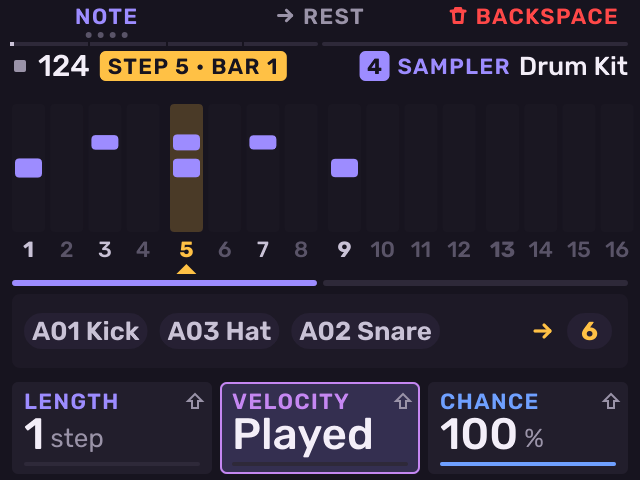
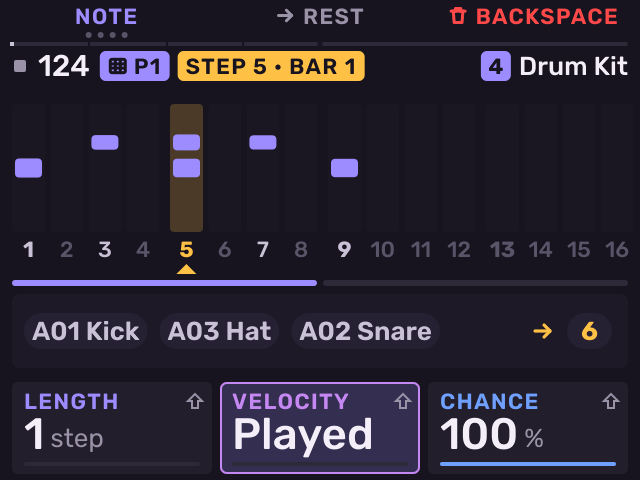
feat(melodee): Roll, Motion and Step Edit name the pattern they edit in the header, amber while the track plays another; the pattern's LENGTH and Q cards name it too (P20 LENGTH)

Changed region(s): [[0.1562, 0.0938, 0.8125, 0.1875]]

diff --git a/src/melodee/pages/common.cpp b/src/melodee/pages/common.cpp
@@ -75,6 +75,13 @@ ui::HeaderItem bank_pill(const Snapshot& s) {
                     ui::colour::text);
 }
 
+// The pattern the editors and the pattern cards edit: in the track's colour, amber while another one plays.
+ui::HeaderItem edit_pattern_chip(const Snapshot& s) {
+    unsigned edited = s.track().pattern % pattern_count;
+    bool apart = s.playing && s.playing_patterns[s.ui.track % track_count] % pattern_count != edited;
+    return ui::chip(ui::Icon::Pattern, "P" + juce::String(edited + 1), apart ? ui::colour::amber : colour_of(s));
+}
+
 ui::HeaderItem tag_of(const Snapshot& s, unsigned track) {
     const auto& t = s.project.tracks[track % track_count];
     const auto& info = engine_info(t.engine);
@@ -326,12 +333,14 @@ void describe_card(const Snapshot& s, const Binding& b, ui::KnobCard& c) {
         break;
     case Kind::PatternBars: case Kind::PatternLength: { // by the bar; a length that is not whole bars by the step of Q
         unsigned bar = s.project.bar_ticks();
-        if (s.pattern.length % bar) { c.label = "LENGTH"; c.value = juce::String(s.pattern.steps()); c.unit = "steps"; break; }
+        juce::String which = "P" + juce::String(s.track().pattern % pattern_count + 1) + " "; // the pattern it belongs to
+        c.label = which + "LENGTH"; c.label_mixed = which + "Length"; // mixed case where capitals don't fit (P128)
+        if (s.pattern.length % bar) { c.value = juce::String(s.pattern.steps()); c.unit = "steps"; break; }
         unsigned bars = s.pattern.length / bar;
-        c.label = "LENGTH"; c.value = juce::String(bars); c.unit = bars == 1 ? "bar" : "bars";
+        c.value = juce::String(bars); c.unit = bars == 1 ? "bar" : "bars";
         break;
     }
-    case Kind::Division: c.label = "Q"; c.value = division_name(Division(b.value)); break;
+    case Kind::Division: c.label = "P" + juce::String(s.track().pattern % pattern_count + 1) + " Q"; c.value = division_name(Division(b.value)); break;
     case Kind::TimeSignature: {
         auto sig = time_signatures[unsigned(b.value) % time_signature_count];
         c.label = "TIME SIG"; c.value = juce::String(sig.beats) + "/" + juce::String(sig.unit);

diff --git a/src/melodee/tools.cpp b/src/melodee/tools.cpp
@@ -2456,6 +2456,11 @@ const Preview previews[] {
          roll_bass(shell, s, 22, 60);
          s.playing = true; s.position = 26 * sixteenth_ticks; s.ui.turning = 1; s.ui.turned_at = s.now;
      }},
+    {"rollapart", [](Shell& shell, Snapshot& s) { // Roll on P1 while P2 plays: the pattern chip amber
+         roll_bass(shell, s, 22, 60);
+         s.playing = true; s.position = 26 * sixteenth_ticks;
+         s.playing_patterns[s.ui.track % track_count] = uint8_t((s.project.tracks[s.ui.track % track_count].pattern + 1) % pattern_count);
+     }},
     {"notesheet", [](Shell& shell, Snapshot& s) { // Push on the note in focus: Accent, Slide, Tie, Delete as cards
          roll_bass(shell, s, 24, 57);
          s.ui.sheet_open = true;

diff --git a/src/melodee/pages/common.h b/src/melodee/pages/common.h
@@ -16,6 +16,7 @@ ui::Header header_of(const Snapshot& s);
 ui::HeaderItem tag_of(const Snapshot& s, unsigned track);
 // The bank of patterns in view (UiState::pattern_bank): "BANK B" beside the pattern grids.
 ui::HeaderItem bank_pill(const Snapshot& s);
+ui::HeaderItem edit_pattern_chip(const Snapshot& s); // "P20": the pattern edited; amber while another plays
 std::array<ui::KnobCard, 3> cards_of(const Snapshot& s);
 // A card's label, value and unit for one Binding (also the fader's card).
 void describe_card(const Snapshot& s, const struct Binding& b, ui::KnobCard& c);

diff --git a/src/melodee/pages/roll_page.cpp b/src/melodee/pages/roll_page.cpp
@@ -63,6 +63,7 @@ void draw(Paint& p, const Snapshot& s) {
     const bool marks = roll_selection(ui, track.pattern); // Shift + wheel's marks (shell/roll.h)
     bool kit = lane < 0 && (track.engine == EngineKind::Sampler || drum_pads(track)); // lanes of pads, not keys (Drums pads too: 36 is A01)
     Header h = header_of(s);
+    h.left.push_back(edit_pattern_chip(s));
     if (!ui.recording) {
         if (focused && ui.held_note >= 0) h.left.push_back(pill("LOCK", c)); // its pad held: the pots lock it (roadmap P1)
         if (focused) // where it sits: the place bar's

diff --git a/src/melodee/pages/step_edit_page.cpp b/src/melodee/pages/step_edit_page.cpp
@@ -179,6 +179,7 @@ void draw(Paint& p, const Snapshot& s) {
         where = "STEPS " + juce::String::fromUTF8("\xc2\xb7 ") + key_name(s, key, true);
     }
     if (s.ui.held_step >= 0) where += juce::String::fromUTF8(" \xc2\xb7 LOCK"); // held: the pots lock it
+    h.left.push_back(edit_pattern_chip(s));
     h.left.push_back(chip(where, colour::amber));
     if (s.ui.step_cards == 3 && lane >= 0) // the EUCLID row: the lane's rhythm, E(hits, steps)
         if (const EuclidLane* e = euclid_of(pattern, unsigned(lane)))

diff --git a/src/melodee/pages/motion_page.cpp b/src/melodee/pages/motion_page.cpp
@@ -27,6 +27,7 @@ void draw(Paint& p, const Snapshot& s) {
     const auto& motion = s.pattern.motion;
     auto c = colour_of(s);
     Header h = header_of(s);
+    h.left.push_back(edit_pattern_chip(s));
     h.left.push_back(pill(Icon::Motion, juce::String(unsigned(motion.size()))));
     h.right.push_back(tag_of(s, s.ui.track));
     frame(p, s, {{"PATTERNS", "ROLL", "MOTION"}, 2, c}, h);

diff --git a/docs/guide/sequencing.md b/docs/guide/sequencing.md
@@ -130,6 +130,10 @@ start playing. This is one undo step.
 **B2** (**ROLL**) and **B3** (**MOTION**) open the pattern editors. Press
 **SHIFT** + **SEQ** for **Step Edit**, on any page.
 
+The header of Roll, Motion and Step Edit names the pattern they edit
+(**P20**). It is amber while the track plays another pattern. The cards
+that belong to one pattern name it too: **P20 LENGTH**, **P20 Q**.
+
 **Roll**
 
 Roll is a piano roll. On a kit, each row is a pad.
